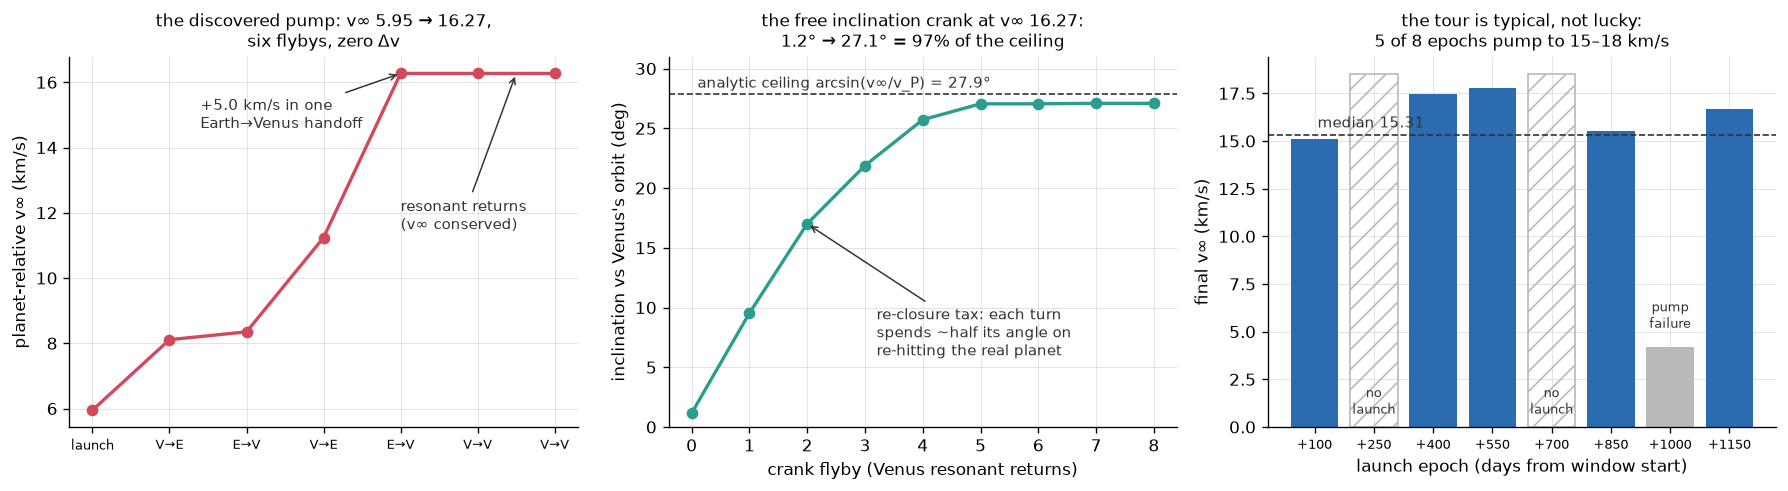
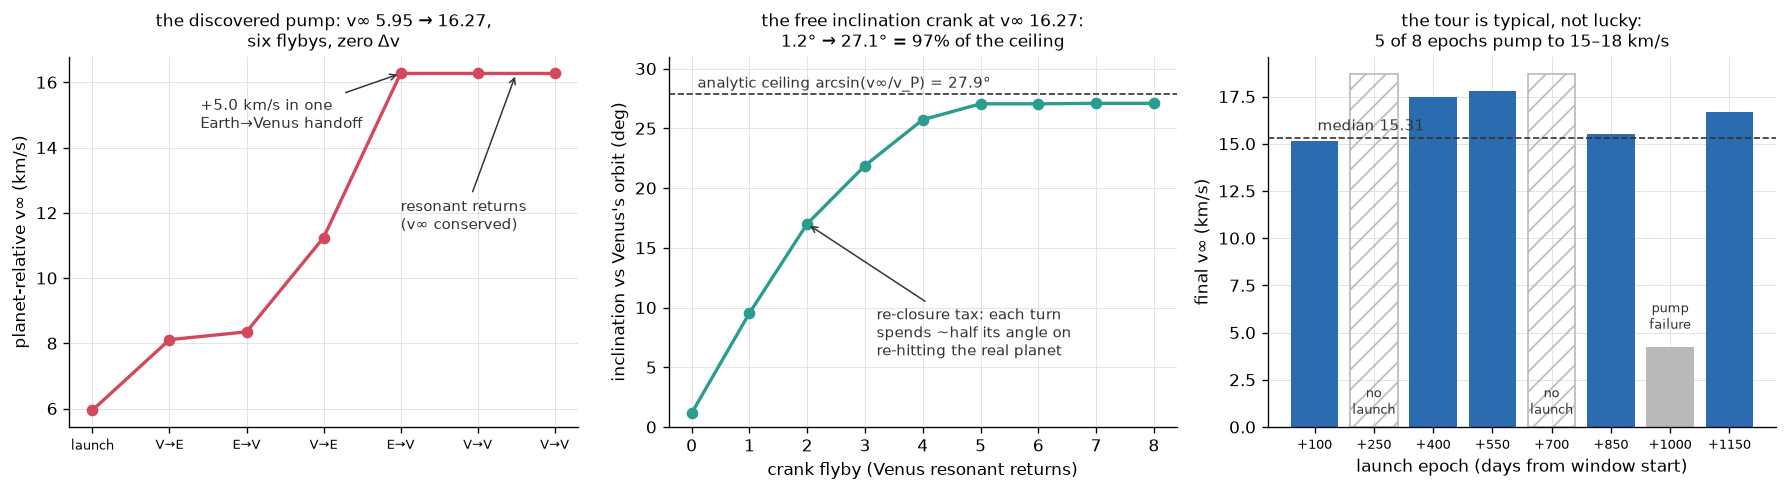
style: no-launch placeholder bars sized from the data range, not a magic height (Sourcery)

diff --git a/scripts/viz_tour.py b/scripts/viz_tour.py
@@ -83,11 +83,12 @@ def main():
     b.set_ylim(0, 31)
     _grid(b)
 
-    # (c) the epoch sweep
+    # (c) the epoch sweep — placeholder bars for no-launch epochs span the data range (no magic height)
     xc = np.arange(len(EPOCH_OFF))
+    v_top = 1.05 * max(v for v in EPOCH_VF if v is not None)
     for i, (off, vf) in enumerate(zip(EPOCH_OFF, EPOCH_VF)):
         if vf is None:
-            c.bar(i, 18.5, color="none", edgecolor=FAIL, hatch="//", lw=1.0)
+            c.bar(i, v_top, color="none", edgecolor=FAIL, hatch="//", lw=1.0)
             c.text(i, 0.7, "no\nlaunch", ha="center", fontsize=7.5, color=INK)
         else:
             c.bar(i, vf, color=EPOCH if vf >= 10 else FAIL)
